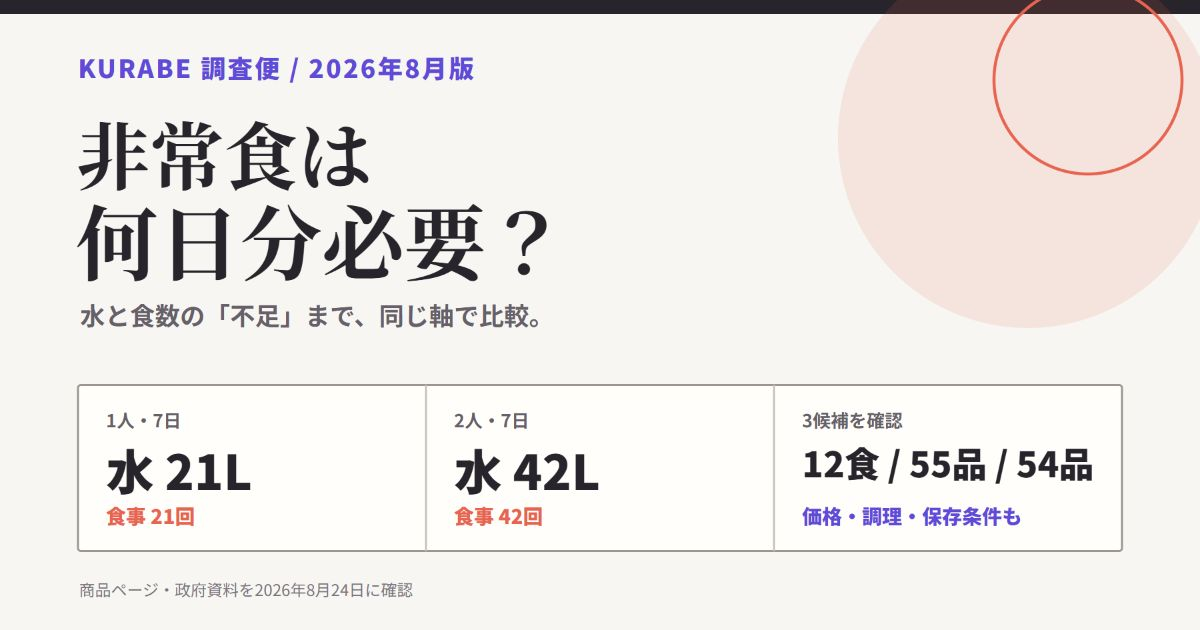
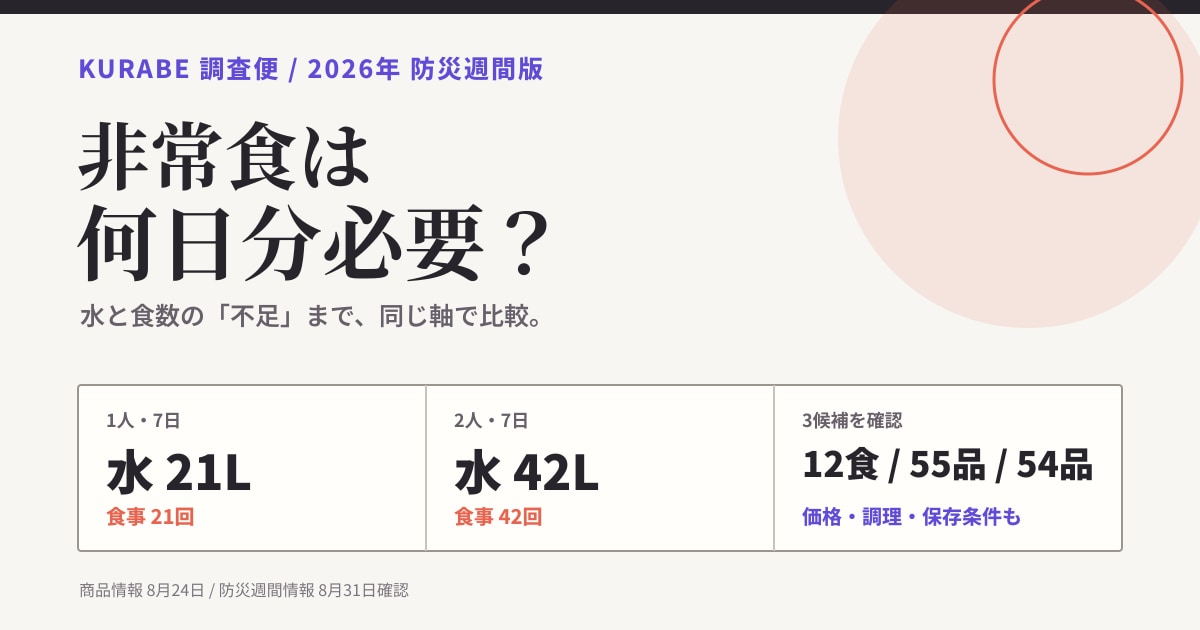
refresh site for disaster preparedness week

diff --git a/index.html b/index.html
@@ -5,13 +5,13 @@
   <meta name="viewport" content="width=device-width, initial-scale=1">
   <meta name="google-site-verification" content="DC_JT9OtznzdcwXBxX5tP7ejILFLYnPpgxCS5X9ggpE">
   <meta name="msvalidate.01" content="34A344C1FAB7AF780ADB30B27889F18B">
-  <meta name="description" content="2026年8月版。地震後の備蓄点検として、非常食セット3候補を1人7日分・2人用・12食で比較。必要な水と食数、不足分、価格、保存条件を出典付きで確認。">
+  <meta name="description" content="2026年9月・防災週間版。防災の日に見直したい非常食を、1人7日分・2人用・12食で比較。必要な水と食数、不足分、価格、保存条件を出典付きで確認。">
   <meta name="theme-color" content="#f7f6f2">
   <meta property="og:type" content="article">
   <meta property="og:locale" content="ja_JP">
   <meta property="og:site_name" content="KURABE 調査便">
-  <meta property="og:title" content="非常食は何日分必要？1人7日・2人用を水量まで比較【2026年8月】">
-  <meta property="og:description" content="1人7日で水21L・食事21回が目安。尾西12食、LA・PITA 55品、ソナエラボ37種54品の不足分まで出典付き比較。">
+  <meta property="og:title" content="防災の日に非常食は何日分必要？1人7日・2人用を比較【2026年9月】">
+  <meta property="og:description" content="防災週間に3分で備蓄点検。1人7日で水21L・食事21回を目安に、手持ちから不足分を確認できます。">
   <meta property="og:url" content="https://gangbenhui98-dot.github.io/kurabe-research-sample/">
   <meta property="og:image" content="https://gangbenhui98-dot.github.io/kurabe-research-sample/og-image.jpg">
   <meta property="og:image:type" content="image/jpeg">
@@ -20,17 +20,17 @@
   <meta property="og:image:alt" content="非常食は何日分必要か、水と食数の目安を示した比較図">
   <meta name="twitter:card" content="summary_large_image">
   <meta name="twitter:image" content="https://gangbenhui98-dot.github.io/kurabe-research-sample/og-image.jpg">
-  <title>非常食は何日分必要？1人7日・2人用を水量まで比較【2026年8月】</title>
+  <title>防災の日に非常食は何日分必要？1人7日・2人用を比較【2026年9月】</title>
   <link rel="canonical" href="https://gangbenhui98-dot.github.io/kurabe-research-sample/">
   <link rel="stylesheet" href="styles.css">
   <script type="application/ld+json">
   {
     "@context": "https://schema.org",
     "@type": "Article",
-    "headline": "非常食は何日分必要？1人7日・2人用を水量まで比較【2026年8月】",
-    "description": "1人7日で水21L・食事21回が目安。尾西12食、LA・PITA 55品、ソナエラボ37種54品の不足分まで出典付き比較。",
+    "headline": "防災の日に非常食は何日分必要？1人7日・2人用を比較【2026年9月】",
+    "description": "防災週間に3分で備蓄点検。1人7日で水21L・食事21回を目安に、手持ちから不足分を確認できます。",
     "datePublished": "2026-08-24",
-    "dateModified": "2026-08-24",
+    "dateModified": "2026-08-31",
     "inLanguage": "ja-JP",
     "isAccessibleForFree": true,
     "image": "https://gangbenhui98-dot.github.io/kurabe-research-sample/og-image.jpg",
@@ -47,10 +47,10 @@
     <a class="report-back" href="#top"><span aria-hidden="true">↑</span> KURABE 調査便 — 非常食比較</a>
 
     <header class="report-header">
-      <p class="kicker">2026年8月版 / 出典付き比較</p>
-      <h1>非常食は何日分必要？<br>1人7日・2人用を水量まで比較</h1>
+      <p class="kicker">2026年9月・防災週間版 / 出典付き比較</p>
+      <h1>防災の日に、非常食は何日分必要？<br>1人7日・2人用を水量まで比較</h1>
       <div class="report-meta">
-        <span>確認日 2026-08-24</span>
+        <span>更新日 2026-08-31 / 商品情報は8月24日確認</span>
         <span>条件 1〜2人 / 予算2万円以内 / 自宅保管</span>
         <span>候補 3件</span>
       </div>
@@ -68,10 +68,10 @@
     </nav>
 
     <aside class="timely-note" aria-labelledby="timely-title">
-      <p class="timely-date">2026.08.24 / 地震後の備蓄点検</p>
-      <h2 id="timely-title">怖さで買う前に、水と食数だけ数える。</h2>
-      <p>気象庁は8月23日2時ごろの茨城県南部の地震を、M5.9・最大震度5弱と発表しました。8月30日からは防災週間です。慌てて一箱を選ぶのではなく、家にある分を引いて不足だけ足します。</p>
-      <p class="timely-source"><a href="https://www.data.jma.go.jp/eew/data/nc/fc_hist/2026/08/20260823020050/index.html" rel="noopener" target="_blank">気象庁の地震情報</a><span>／</span><a href="https://www.bousai.go.jp/kyoiku/week/r8bousaiweek.html" rel="noopener" target="_blank">内閣府 2026年防災週間</a></p>
+      <p class="timely-date">2026.08.31 / 防災の日・防災週間</p>
+      <h2 id="timely-title">明日9月1日は防災の日。まず3分で、家にある分を数える。</h2>
+      <p>内閣府は9月1日を「防災の日」、8月30日〜9月5日を「防災週間」とし、食料・飲料水などを最低3日、できれば1週間分程度備蓄するよう案内しています。慌てて一箱を選ぶのではなく、手持ちを引いて不足だけ足します。</p>
+      <p class="timely-source"><a href="https://www.bousai.go.jp/kyoiku/week/r8bousaiweek.html" rel="noopener" target="_blank">内閣府 令和8年度「防災週間」</a><span>／</span><a href="calculator.html">手持ちから不足分を無料計算</a></p>
     </aside>
 
     <section class="report-answer" aria-labelledby="answer-title">

diff --git a/service.html b/service.html
@@ -51,7 +51,7 @@
           <a class="button button-primary" href="mailto:kurabe.support@gmail.com?subject=KURABE%20%E8%AA%BF%E6%9F%BB%E4%BE%BF%EF%BD%9C%E6%AF%94%E8%BC%83%E3%83%9F%E3%83%8B%E4%BE%BF%E3%81%AE%E7%9B%B8%E8%AB%87&amp;body=%E9%81%B8%E3%81%B3%E3%81%9F%E3%81%84%E3%82%82%E3%81%AE%EF%BC%9A%0A%E4%BA%88%E7%AE%97%EF%BC%9A%0A%E5%A4%96%E3%81%9B%E3%81%AA%E3%81%84%E6%9D%A1%E4%BB%B6%EF%BC%88%E6%9C%80%E5%A4%A74%E3%81%A4%EF%BC%89%EF%BC%9A%0A%E5%80%99%E8%A3%9C%E3%83%BBURL%EF%BC%88%E3%81%82%E3%82%8C%E3%81%B0%EF%BC%89%EF%BC%9A%0A%E4%BD%BF%E3%81%86%E5%A0%B4%E9%9D%A2%EF%BC%9A%0A%E5%BF%85%E8%A6%81%E3%81%AA%E6%9C%9F%E9%99%90%EF%BC%9A%0A%0A%E3%81%93%E3%82%8C%E3%81%AF%E7%9B%B8%E8%AB%87%E3%81%A7%E3%81%82%E3%82%8A%E3%80%81%E5%AE%8C%E5%85%A8%E3%81%AA%E5%8F%96%E5%BC%95%E6%9D%A1%E4%BB%B6%E3%81%AE%E6%8F%90%E7%A4%BA%E3%81%A8%E5%8F%8C%E6%96%B9%E3%81%AE%E5%90%88%E6%84%8F%E3%81%BE%E3%81%A7%E3%81%AF%E7%94%B3%E8%BE%BC%E3%81%BF%E3%81%AB%E3%81%AA%E3%82%8A%E3%81%BE%E3%81%9B%E3%82%93%E3%80%82">メールで相談する</a>
           <a class="button button-quiet" href="#terms">取引条件を見る</a>
         </div>
-        <p class="availability"><span aria-hidden="true"></span><strong>8月25日20:00納品枠</strong> 先着1件</p>
+        <p class="availability"><span aria-hidden="true"></span><strong>無料相談を受付中</strong> 有料受付は完全な取引条件の提示後</p>
         <p class="hero-offer-brief"><b>相談無料・この時点では申込み／支払いなし</b><span>依頼確定なら税込1,000円。条件確定と入金から24時間以内。</span><small>メールが開かない場合：kurabe.support@gmail.com</small></p>
       </div>
 
@@ -183,7 +183,7 @@
         <div><dt>料金</dt><dd>税込1,000円</dd></div>
         <div><dt>料金以外の負担</dt><dd>銀行振込手数料、依頼者側の通信費</dd></div>
         <div><dt>支払方法・時期</dt><dd>銀行振込。個別見積への合意から6時間以内、かつ調査開始前</dd></div>
-        <div><dt>納品</dt><dd>入金確認と依頼条件の確定から24時間以内。8月25日17:30までに両方が完了した先着1件は、同日20:00まで</dd></div>
+        <div><dt>納品</dt><dd>入金確認と依頼条件の確定から24時間以内</dd></div>
         <div><dt>修正</dt><dd>納品後24時間以内に申し出があった事実誤認を1回訂正</dd></div>
         <div><dt>取消・返金</dt><dd>入金前は無料。入金後・調査開始前は全額返金。開始後は未実施分を返金。納品後の依頼者都合の取消しは不可</dd></div>
         <div><dt>申込み期限</dt><dd>個別見積に記載。記載がない場合は提示から24時間</dd></div>
